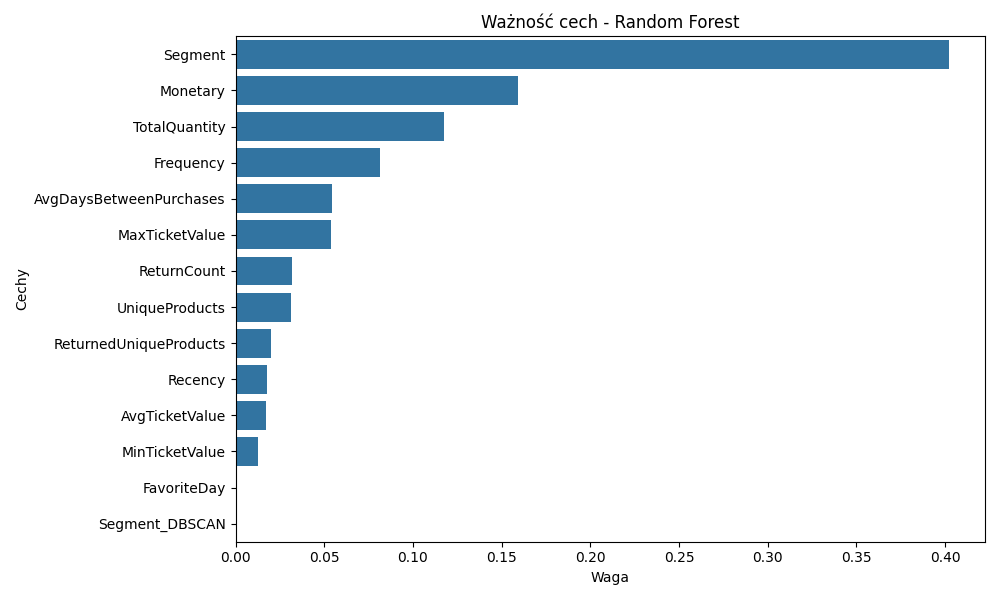
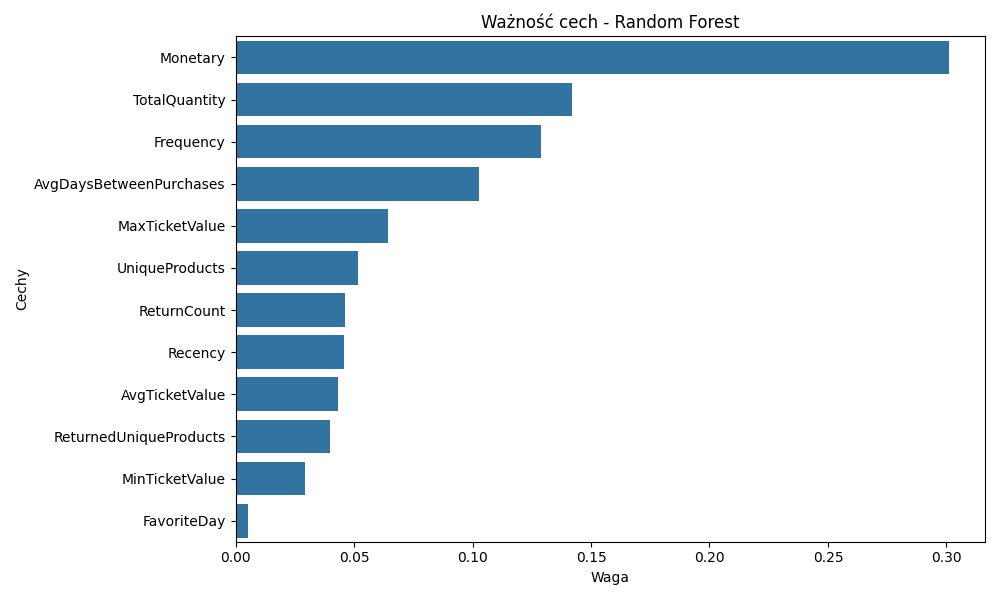
DATA LEAKAGE fixup - usuniecie kolumn segment i segment_DBSCAN ze zmiennej X zeby model faktycznie uczyl sie na cechach, wczesniej przez pomylke byly dodane

diff --git a/src/main_mgr.py b/src/main_mgr.py
@@ -53,11 +53,21 @@ def main():
     
     # 5. Klasyfikacja
     print("\n[5/6] Przygotowanie danych treningowych...")
-    X = features_df
+    
+    # --- POPRAWKA (Fix Data Leakage) ---
+    # features_df zawiera teraz kolumny 'Segment' i 'Segment_DBSCAN', 
+    # ponieważ funkcje segmentacji dodały je do ramki danych.
+    # Musimy je usunąć ze zbioru X, aby model nie uczył się z odpowiedzi.
+    columns_to_drop = ["Segment", "Segment_DBSCAN"]
+    X = features_df.drop(columns=columns_to_drop, errors='ignore')
+    
+    # Y to nasze etykiety (Target)
     y = df_kmeans["Segment"]
     
-    X_train, X_test, y_train, y_test = train_test_split(X, y, test_size=0.3, random_state=42, stratify=y)
+    # Weryfikacja (opcjonalnie wypisz kolumny, by mieć pewność)
+    print(f"Cechy treningowe: {list(X.columns)}")
     
+    X_train, X_test, y_train, y_test = train_test_split(X, y, test_size=0.3, random_state=42, stratify=y)    
     # 6. Modele - TYLKO Random Forest i XGBoost
     print("\n[6/6] Trenowanie modeli (Random Forest & XGBoost)...")
 
